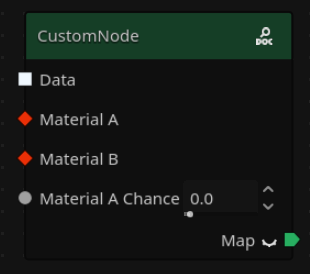
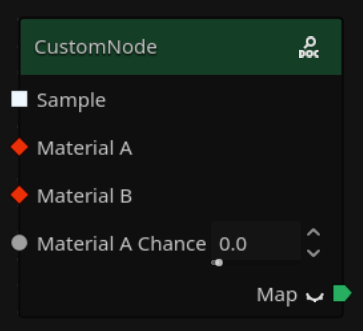
Update to match new namings

diff --git a/docs/tutorials/node-creation.md b/docs/tutorials/node-creation.md
@@ -15,7 +15,7 @@ Now, go to your Project Settings, and under `Gaea/Nodes`, you'll find a setting 
 
 ## Making your First Node
 
-Add a script to your folder which inherits `GaeaNodeResource`. I recommend to give it a `class_name`, let's say `CustomNode`. 
+Add a script to your folder which inherits `GaeaNodeResource`. I recommend giving it a `class_name`, let's say `CustomNode`. 
 
 !!! important
     Your script has to be a [`@tool` script](https://docs.godotengine.org/en/stable/tutorials/plugins/running_code_in_the_editor.html), otherwise it will not work.
@@ -56,33 +56,33 @@ This one's very important. It's where you'll implement the custom functionality 
 
 ### Having Arguments
 
-Great, now you have a node defined. If you go a generator's graph, and click the **Reload create node list** button (![A button with a tree list and a reload icon](../assets/tutorials/node-creation/reload_tree.svg)) in the top left of the panel, you'll see your new node under the category you placed it in, next to all other built-in nodes.
+Great, now you have a node defined. If you go to a generator's graph, and click the **Reload create node list** button (![A button with a tree list and a reload icon](../assets/tutorials/node-creation/reload_tree.svg)) in the top left of the panel, you'll see your new node under the category you placed it in, next to all other built-in nodes.
 
 ![Custom/NodeTitle](../assets/tutorials/node-creation/added_node.png)
 
 You'll notice that when you add it to your graph, it will be sad and empty. This is because of the methods we left unimplemented before. Let's implement them now, starting with arguments.
 
-Let's say we want our node to randomly map each cell of a data grid to 1 of 2 materials, and output that new created map.
+Let's say we want our node to randomly map each cell of a sample grid to 1 of 2 materials, and output that new created map.
 
 We'll need:
 
-- A Data input,
+- A sample input,
 - 2 `GaeaMaterial` inputs,
 - A float between `0.0` to `1.0` that will represent the chance of the first material being selected (otherwise, the second one will be used).
 
-Let's go back to `_get_arguments_list` and make it return `[&"data", &"material_a", &"material_b", &"material_a_chance"]`.
-<br>Now let's go to `_get_argument_type`, and using `match`, return `GaeaValue.Type.DATA` for the first argument, `GaeaValue.Type.MATERIAL` for the next 2, and `GaeaValue.Type.FLOAT` for the last one. Like this:
+Let's go back to `_get_arguments_list` and make it return `[&"sample", &"material_a", &"material_b", &"material_a_chance"]`.
+<br>Now let's go to `_get_argument_type`, and using `match`, return `GaeaValue.Type.SAMPLE` for the first argument, `GaeaValue.Type.MATERIAL` for the next 2, and `GaeaValue.Type.FLOAT` for the last one. Like this:
 
 
 ```
 func _get_arguments_list() -> Array[StringName]:
-	return [&"data", &"material_a", &"material_b", &"material_a_chance"]
+	return [&"sample", &"material_a", &"material_b", &"material_a_chance"]
 
 
 func _get_argument_type(arg_name: StringName) -> GaeaValue.Type:
 	match arg_name:
-		&"data":
-			return GaeaValue.Type.DATA
+		&"sample":
+			return GaeaValue.Type.SAMPLE
 		&"material_a", &"material_b":
 			return GaeaValue.Type.MATERIAL
 		&"material_a_chance":
@@ -143,15 +143,12 @@ This is the code for the node we're making in this tutorial:
 # That's how we represent data of GaeaValue.Type.MAP in the code. 
 func _get_data(_output_port: StringName, area: AABB, graph: GaeaGraph) -> Dictionary[Vector3i, GaeaMaterial]:
 	var grid: Dictionary[Vector3i, GaeaMaterial] = {}
-    # GaeaValue.Type.DATA is Dictionary[Vector3i, float] but Godot sometimes gives errors when typing 
+    # GaeaValue.Type.SAMPLE is Dictionary[Vector3i, float] but Godot sometimes gives errors when typing 
     # this variable as that, so we just use Dictionary.
-	var data: Dictionary = _get_arg(&"data", area, graph) 
+	var sample: Dictionary = _get_arg(&"data", area, graph) 
 	var material_a: GaeaMaterial = _get_arg(&"material_a", area, graph)
 	var material_b: GaeaMaterial = _get_arg(&"material_b", area, graph)
 	var material_a_chance: float = _get_arg(&"material_a_chance", area, graph)
-	# We use _define_rng() for everything related to 
-    # randomness since nodes and generators have their own seed.
-	var rng := define_rng(graph)
 
 	if not is_instance_valid(material_a):
 		_log_error("Invalid material A provided", graph)
@@ -163,19 +160,20 @@ func _get_data(_output_port: StringName, area: AABB, graph: GaeaGraph) -> Dictio
 
     
     # We call execute_sample on materials when using them in a map.
-	for cell in data:
+	for cell in sample:
+        # We use the rng variable for ANY randomnness-related code.
 		if rng.randf() <= material_a_chance:
 			grid.set(
 				cell,
-				material_a.execute_sample(rng, data.get(cell)) 
+				material_a.execute_sample(rng, sample.get(cell)) 
 			)
 		else:
 			grid.set(
 				cell,
-				material_b.execute_sample(rng, data.get(cell))
+				material_b.execute_sample(rng, sample.get(cell))
 			)
 
-	return grid
+    return grid
 ```
 
 Note the code comments, they have useful information on the usage of some methods and variables.
@@ -189,3 +187,72 @@ For other node creation stuff, you can look at the in-editor documentation for `
 You can add a description for example (`_get_description`), or choices (called enums in code) like in `Noise2D`, etc. The possibilities are endless, and if you make an exciting node you can share it to the Gaea repo and we might implement it.
 
 Get making!
+
+
+For reference, the final script looks like this:
+```
+@tool
+class_name CustomNode
+extends GaeaNodeResource
+
+
+func _get_title() -> String:
+	return "CustomNode"
+
+
+func _get_arguments_list() -> Array[StringName]:
+	return [&"sample", &"material_a", &"material_b", &"material_a_chance"]
+
+
+func _get_argument_type(arg_name: StringName) -> GaeaValue.Type:
+	match arg_name:
+		&"sample":
+			return GaeaValue.Type.SAMPLE
+		&"material_a", &"material_b":
+			return GaeaValue.Type.MATERIAL
+		&"material_a_chance":
+			return GaeaValue.Type.FLOAT
+	return GaeaValue.Type.NULL
+
+
+func _get_argument_hint(arg_name: StringName) -> Dictionary[String, Variant]:
+	if arg_name == &"material_a_chance":
+		return {"min": 0.0, "max": 1.0}
+		
+	return super(arg_name)
+
+
+func _get_output_ports_list() -> Array[StringName]:
+	return [&"map"]
+
+
+func _get_output_port_type(_output_name: StringName) -> GaeaValue.Type:
+	return GaeaValue.Type.MAP
+
+
+func _get_data(_output_port: StringName, area: AABB, graph: GaeaGraph) -> Dictionary[Vector3i, GaeaMaterial]:
+	var grid: Dictionary[Vector3i, GaeaMaterial] = {}
+    # GaeaValue.Type.SAMPLE is Dictionary[Vector3i, float] but Godot sometimes gives errors when typing 
+    # this variable as that, so we just use Dictionary.
+	var sample: Dictionary = _get_arg(&"sample", area, graph) 
+	var material_a: GaeaMaterial = _get_arg(&"material_a", area, graph)
+	var material_b: GaeaMaterial = _get_arg(&"material_b", area, graph)
+	var material_a_chance: float = _get_arg(&"material_a_chance", area, graph)
+
+	if not is_instance_valid(material_a):
+		_log_error("Invalid material A provided", graph)
+		return grid
+
+	if not is_instance_valid(material_b):
+		_log_error("Invalid material B provided", graph)
+		return grid
+
+    # We call execute_sample on materials when using them in a map.
+	for cell in sample:
+        # We use the rng variable for ANY randomnness-related code.
+		if rng.randf() <= material_a_chance:
+			grid.set(cell, material_a.execute_sample(rng, sample.get(cell)) )
+		else:
+			grid.set(cell, material_b.execute_sample(rng, sample.get(cell)))
+	return grid
+```